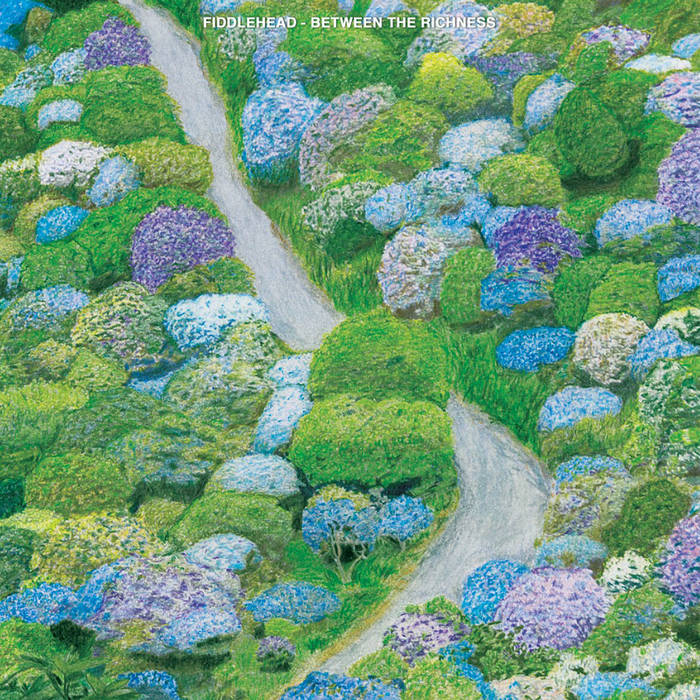
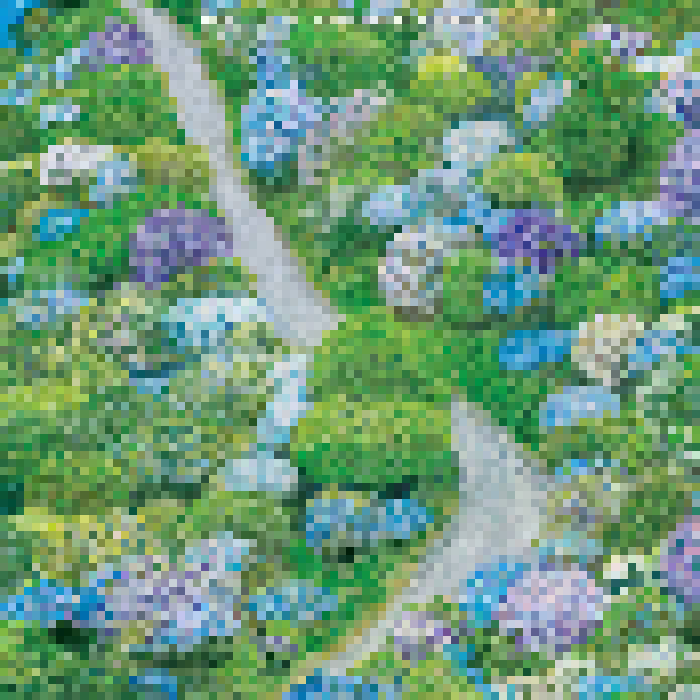
added photography to webpage! + restyled all albums to be pixelated

diff --git a/html/gallery/gallery.html b/html/gallery/gallery.html
@@ -1,0 +1,67 @@
+<!DOCTYPE html>
+<html lang="en">
+    <head>
+        <meta charset="UTF-8">
+        <meta name="viewport" content="width=device-width, initial-scale=1.0">
+        <title>Doug's Playground</title>
+
+        <!-- Fonts -->
+        <link rel="preconnect" href="https://fonts.googleapis.com">
+        <link rel="preconnect" href="https://fonts.gstatic.com" crossorigin>
+        <link href="https://fonts.googleapis.com/css2?family=Jacquard+12&display=swap" rel="stylesheet">
+        <link rel="icon" href="../../img/mercury.gif">
+
+        <!-- CSS -->
+        <link rel="stylesheet" href="../../css/main.css">  
+
+        <!-- JS -->
+         <script src="../../js/main.js" defer></script>
+    </head>
+    <body>
+        <img class="backdrop" src="../../img/SD136.JPG">
+        <div class="splash-image-container">
+            <a href="../../index.html"><img class="splash-image" src="../../img/dougsplaygroundsplash.gif"></a>
+        </div>
+        <section class="main-body">
+            <div class="container-left">
+                <div class="live-chat bubble">
+                    <p><iframe src="https://www3.cbox.ws/box/?boxid=3556293&boxtag=3O1fAe" width="100%" height="300" allowtransparency="yes" allow="autoplay" frameborder="0" marginheight="0" marginwidth="0" scrolling="auto"></iframe>	</p> 
+                </div>
+            </div>
+            <div class="container-main flex-column">
+                
+                <div class="blogs bubble">
+                    <p style="font-weight: 900;">Gallery</p>
+                    <p>Hey! I do photography as well, I have included some of my favorite shots in this gallery, with <em>(hopefully)</em> many more to come :)</p>
+                    <div class="gallery">
+                    <div class="photos-preview">
+                        <img class="photo" src="../../img/gallery/gallery1.png">
+                        <img class="photo" src="../../img/gallery/gallery2.png">
+                        <img class="photo" src="../../img/gallery/gallery3.png">
+                        <img class="photo" src="../../img/gallery/gallery4.png">
+                        <img class="photo" src="../../img/gallery/gallery5.png">
+                        <img class="photo" src="../../img/gallery/gallery6.png">
+                        <img class="photo" src="../../img/gallery/gallery7.png">
+                        <img class="photo" src="../../img/gallery/gallery8.png">
+                        <img class="photo" src="../../img/gallery/gallery9.png">
+                        <img class="photo" src="../../img/gallery/gallery10.png">
+                        <img class="photo" src="../../img/gallery/gallery11.png">
+                        <img class="photo" src="../../img/gallery/gallery12.png">
+                        <img class="photo" src="../../img/gallery/gallery13.png">
+                        <img class="photo" src="../../img/gallery/gallery14.png">
+                        <img class="photo" src="../../img/gallery/gallery15.png">
+                        <img class="photo" src="../../img/gallery/gallery16.png">
+                    </div>
+                </div>
+                </div>
+            </div>
+            
+        </section>
+        <section class="footer-container">
+            <div class="footer">
+                <a href="https://neocities.org/" target="_blank"><img src="../../img/neocities.gif"></a>
+            </div>
+            <div><p style="color: rgb(255, 255, 255);">Est. June, 2026 | Human Made.</p></div>
+        </section>
+    </body>
+</html>>

diff --git a/js/main.js b/js/main.js
@@ -188,6 +188,16 @@ const albums = [
     topTrack: "The Summer",
     color: "#950B0D"
   }
+  ,
+  {
+    cover: "../img/solongforever.jpg",
+    artist: "Palace",
+    title: "So Long Forever",
+    runtime: "42 Minutes",
+    genres: "Indie Rock, Feel-good",
+    topTrack: "It's Over",
+    color: "#259164"
+  }
 ];
 const container = document.getElementById("top-3-albums");
 const upload = document.getElementById("imageUpload");
@@ -206,42 +216,49 @@ upload.addEventListener("change", (e) => {
     const file = e.target.files[0];
     if (!file) return;
 
-    const img = new Image();
-    img.onload = () => {
-        const pixelSize = 8;
+    const reader = new FileReader();
 
-        const smallCanvas = document.createElement("canvas");
-        const smallCtx = smallCanvas.getContext("2d");
+    reader.onload = (event) => {
+        const img = new Image();
 
-        smallCanvas.width = Math.floor(img.width / pixelSize);
-        smallCanvas.height = Math.floor(img.height / pixelSize);
+        img.onload = () => {
+            const pixelSize = 8;
 
-        smallCtx.drawImage(
-            img,
-            0,
-            0,
-            smallCanvas.width,
-            smallCanvas.height
-        );
+            const smallCanvas = document.createElement("canvas");
+            const smallCtx = smallCanvas.getContext("2d");
 
-        canvas.width = img.width;
-        canvas.height = img.height;
+            smallCanvas.width = Math.floor(img.width / pixelSize);
+            smallCanvas.height = Math.floor(img.height / pixelSize);
 
-        ctx.imageSmoothingEnabled = false;
-        ctx.drawImage(
-            smallCanvas,
-            0,
-            0,
-            smallCanvas.width,
-            smallCanvas.height,
-            0,
-            0,
-            canvas.width,
-            canvas.height
-        );
+            smallCtx.drawImage(
+                img,
+                0,
+                0,
+                smallCanvas.width,
+                smallCanvas.height
+            );
+
+            canvas.width = img.width;
+            canvas.height = img.height;
+
+            ctx.imageSmoothingEnabled = false;
+            ctx.drawImage(
+                smallCanvas,
+                0,
+                0,
+                smallCanvas.width,
+                smallCanvas.height,
+                0,
+                0,
+                canvas.width,
+                canvas.height
+            );
+        };
+
+        img.src = event.target.result;
     };
 
-    img.src = URL.createObjectURL(file);
+    reader.readAsDataURL(file);
 });
 
 randomAlbum.forEach(album => {

diff --git a/index.html b/index.html
@@ -33,7 +33,12 @@
                     <a href="https://gify.pet/" target="_blank"><img src="../img/gifypet.gif"/></a>
                 </div>
                 <div class="live-chat bubble">
+                    <p><strong>Current Mood</strong>: Inspired <img src="./img/scratchchin.gif"></p>
                     <p><iframe src="https://www3.cbox.ws/box/?boxid=3556293&boxtag=3O1fAe" width="100%" height="300" allowtransparency="yes" allow="autoplay" frameborder="0" marginheight="0" marginwidth="0" scrolling="auto"></iframe>	</p> 
+                </div>
+                <div class="bubble">
+                    <p><strong></strong>Puppy Picture</strong>:</p>
+                    <img class="doggo-pic" src="./img/doggo1.png"/>
                 </div>
             </div>
             <div class="container-main flex-column">
@@ -51,10 +56,16 @@
                     <p>- Doug</p>
                 </div>
                 <div class="gallery bubble">
-                    <p style="font-weight: 900;">Gallery</p>
+                    <p style="font-weight: 900;">Gallery <a href="./html/gallery/gallery.html" style="text-decoration: none; color: black;"><label class="upload-btn">View All</label></a></p>
+                    <div class="photos-preview">
+                        <img class="photo" src="./img/gallery/gallery1.png">
+                        <img class="photo" src="./img/gallery/gallery10.png">
+                        <img class="photo" src="./img/gallery/gallery7.png">
+                        <img class="photo" src="./img/gallery/gallery14.png">
+                    </div>
                 </div>
                 <div class="blogs bubble">
-                    <p style="font-weight: 900;">Blogs</p>
+                    <p style="font-weight: 900;">Blogs </p>
                     <a href="./html/blogs/2026-06-23.html"><p>2026-06-23 | Hello World</p></a>
                     <p class="blog-preview-text">This project has been a blast so far! I am learning much more than I thought I would be about...</p>
 
@@ -83,6 +94,7 @@
             <div class="footer">
                 <a href="https://neocities.org/" target="_blank"><img src="../../img/neocities.gif"></a>
             </div>
+            <div><p style="color: rgb(255, 255, 255);">Est. June, 2026 | Human Made.</p></div>
         </section>
     </body>
-</html>>
+</html>>>

diff --git a/css/main.css b/css/main.css
@@ -8,6 +8,12 @@ p {
     font-size: 10px;
 }
 
+p,
+span,
+div {
+    line-height: 2;
+}
+
 .red-strike-through {
     text-decoration: line-through;
     text-decoration-color: rgb(180, 2, 2);
@@ -172,12 +178,29 @@ p {
     justify-content: center;
 }
 
+.doggo-pic {
+    width: 100%;
+}
+
 /* Blogs */
 
  .blog-preview-text {
     font-size: 8px;
     color: rgb(134, 134, 134);
  }
+
+.photos-preview {
+    column-count: 2;
+    column-gap: 10px;
+}
+
+.photo {
+    width: 100%;
+    height: auto;
+    display: block;
+    margin-bottom: 10px;
+    break-inside: avoid;
+}
 
 /* Duke Section */
 
@@ -257,7 +280,8 @@ p {
 .footer-container {
     width: 100%;
     display: flex;
-    justify-content: center;
+    flex-direction: column;
+    place-items: center;
     margin-top: 200px;
 }
 

diff --git a/html/blogs/2026-06-23.html b/html/blogs/2026-06-23.html
@@ -56,6 +56,7 @@
             <div class="footer">
                 <a href="https://neocities.org/" target="_blank"><img src="../../img/neocities.gif"></a>
             </div>
+            <div><p style="color: rgb(255, 255, 255);">Est. June, 2026 | Human Made.</p></div>
         </section>
     </body>
 </html>>
